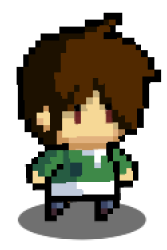
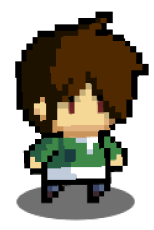
<refactor>: 창 크기에 따른 반응형 웹 구성 및 아바타 컴포넌트 추출

diff --git a/src/component/main screen/BeforeLogin.jsx b/src/component/main screen/BeforeLogin.jsx
@@ -1,15 +1,15 @@
 import React from 'react';
-// import { useNavigate } from "react-router-dom";
 import styled from 'styled-components';
 import Button from './ButtonSet.jsx'
+import Avatar from './Avatar.jsx';
 import logoRoot from '../resource/unisphere_logo.png';
-import chRoot from '../resource/avatar_individual.png';
+import chRoot from '../resource/avatar_unisphere.png';
 
 /* 사용자가 로그인하기 전 화면 배치 */
 function BeforeLoginSet() {
   return (
     <MainScreenPosition>
-      <LogoPart style={{ height: '15.6%' }}>
+      <LogoPart>
         <img src={logoRoot} alt="logo"/>
       </LogoPart>
       <ButtonPart>
@@ -24,10 +24,11 @@ function BeforeLoginSet() {
         </text>
         <BubbleBubble></BubbleBubble>
       </BubblePart>
-      <AvatarPart>
-        <img  src={chRoot} alt="ch"/>
-        <name>UNISPHERE</name>
-      </AvatarPart>
+      <Avatar 
+        name='UNISPHERE' 
+        src={chRoot}
+        marginLeft='45%'
+      />
     </MainScreenPosition>
   );
 }
@@ -35,33 +36,21 @@ function BeforeLoginSet() {
 const MainScreenPosition = styled.div`
   display: flex;
   flex-direction: column;
+  width: 100vw;
+  height: 100vh;
 `;
 
 const LogoPart = styled.div`
-  padding: 5% 23% 0% 23%;
+  margin: auto;
   position: relative;
 `;
 
 const ButtonPart = styled.div`
-  width: 6.048%;
   margin-top: 2%;
   margin-left: 2%;
+  margin-bottom: 4%;
   border-radius: 50px;
   position: relative;
-`;
-
-const AvatarPart = styled.div`
-  display: 'flex'; 
-  align-items: center;
-  width: 10%;
-  margin-top: 33%;
-  margin-left: 45%;
-  text-align: center;
-  position: fixed;
-  name {
-    font-family: 'Godo', sans-serif;
-    font-size: 22px;
-  }
 `;
 
 const BubblePart = styled.div`
@@ -70,8 +59,8 @@ const BubblePart = styled.div`
   border: none;
   border-radius: var(--button-radius, 20px);
   background-color: var(--bubble-bg-color, #d9d9d9);
-  margin-top: 29%;
-  margin-left: 45%;
+  margin-top: 50vh;
+  margin-left: 46vw;
   padding: 3px 10px 3px 10px;
   box-shadow: 4px 4px 4px 0px gray;
   -webkit-border-radius: 10px;
@@ -86,7 +75,6 @@ const BubblePart = styled.div`
 `;
 
 const BubbleBubble = styled.div`
-  content: '';
   position: absolute;
   border-style: solid;
   border-width: 22px 14px 0;
@@ -97,10 +85,5 @@ const BubbleBubble = styled.div`
   bottom: -22px;
   left: 29px;
 `;
-
-// const navigate = useNavigate();
-// const navigateToLogin = () => {
-//     navigate("/login");
-// };
 
 export default BeforeLoginSet;

diff --git a/src/component/main screen/AfterLogin.jsx b/src/component/main screen/AfterLogin.jsx
@@ -1,9 +1,47 @@
 import React from 'react';
 import styled from 'styled-components';
+import Avatar from './Avatar.jsx';
+import logoRoot from '../resource/unisphere_logo.png';
+import ch1Root from '../resource/avatar_koica.png';
+import ch2Root from '../resource/avatar_unisphere.png';
+import ch3Root from '../resource/avatar_individual.png';
 
 /* 사용자가 로그인한 후 화면 배치 */
 function AfterLoginSet() {
-
+  return (
+    <MainScreenPosition>
+      <LogoPart>
+        <img src={logoRoot} alt="logo"/>
+      </LogoPart>
+      <Avatar 
+        name='KOICA' 
+        src={ch1Root}
+        marginLeft='14.3%'
+      />
+      <Avatar 
+        name='UNISPHERE' 
+        src={ch2Root}
+        marginLeft='45%'
+      />
+      <Avatar 
+        name='Jisoo Jeong' 
+        src={ch3Root}
+        marginLeft='71.3%'
+      />
+    </MainScreenPosition>
+  );
 }
+
+const MainScreenPosition = styled.div`
+  display: flex;
+  flex-direction: column;
+  width: 100vw;
+  height: 100vh;
+`;
+
+const LogoPart = styled.div`
+  margin: auto;
+  position: relative;
+`;
 
 export default AfterLoginSet;

diff --git a/src/App.js b/src/App.js
@@ -11,10 +11,10 @@ class App extends React.Component {
     return (
       <Router>
         <Routes>
-          <Route path="/" element={<MainScreen />} />
-          <Route path="/login" element={<LoginScreen />} />
-          {/* <Route path="/guide" element={<GuideScreen />} /> */}
-          <Route path="/myhomepage" element={<HomepageScreen />}/>
+          <Route path="/" element={<MainScreen/>}/>
+          <Route path="/login" element={<LoginScreen/>}/>
+          {/* <Route path="/guide" element={<GuideScreen/>}/> */}
+          <Route path="/myhomepage" element={<HomepageScreen/>}/>
         </Routes>
       </Router>
     );

diff --git a/src/component/main screen/ButtonSet.jsx b/src/component/main screen/ButtonSet.jsx
@@ -11,12 +11,12 @@ function Button({ children, onClick }) {
 
 const StyledButton = styled.button`
   margin: 10px;
-  width: 250px;
-  height: 80px;
+  width: 16.53%;
+  height: 8vh;
   border: none;
   cursor: pointer;
   font-family: 'Godo', sans-serif;
-  font-size: 27px;
+  font-size: 1.6vw;
   padding: var(--button-padding, 12px 16px);
   border-radius: var(--button-radius, 50px);
   background: var(--button-bg-color, #d9d9d9);
@@ -28,7 +28,6 @@ const StyledButton = styled.button`
   &:focus {
     background: var(--button-hover-bg-color, #5e5e5e);
   }
-
   // 고도체
   @font-face {  
     font-family: 'Godo';

diff --git a/src/component/main screen/Avatar.jsx b/src/component/main screen/Avatar.jsx
@@ -1,0 +1,25 @@
+import React from 'react';
+import styled from 'styled-components';
+
+function Avatar(props) {
+  return (
+    <AvatarPart style={{ marginLeft: props.marginLeft }}>
+      <img src={props.src} alt='ch'/>
+      <name>{props.name}</name>
+    </AvatarPart>
+  );
+}
+
+const AvatarPart = styled.div`
+  align-items: center;
+  width: 10vw;
+  margin-top: 59.5vh;
+  text-align: center;
+  position: fixed;
+  name {
+    font-family: 'Godo', sans-serif;
+    font-size: 22px;
+  }
+`;
+
+export default Avatar;

diff --git a/src/screen/MainScreen.jsx b/src/screen/MainScreen.jsx
@@ -7,7 +7,7 @@ import AfterLoginSet from '../component/main screen/AfterLogin';
 function MainScreen(props) {
   const [IsLogin, setIsLogin] = useState(0);
   
-  if (!IsLogin) {
+  if (IsLogin) {
     return(
       <BeforeLoginSet />
     );    
